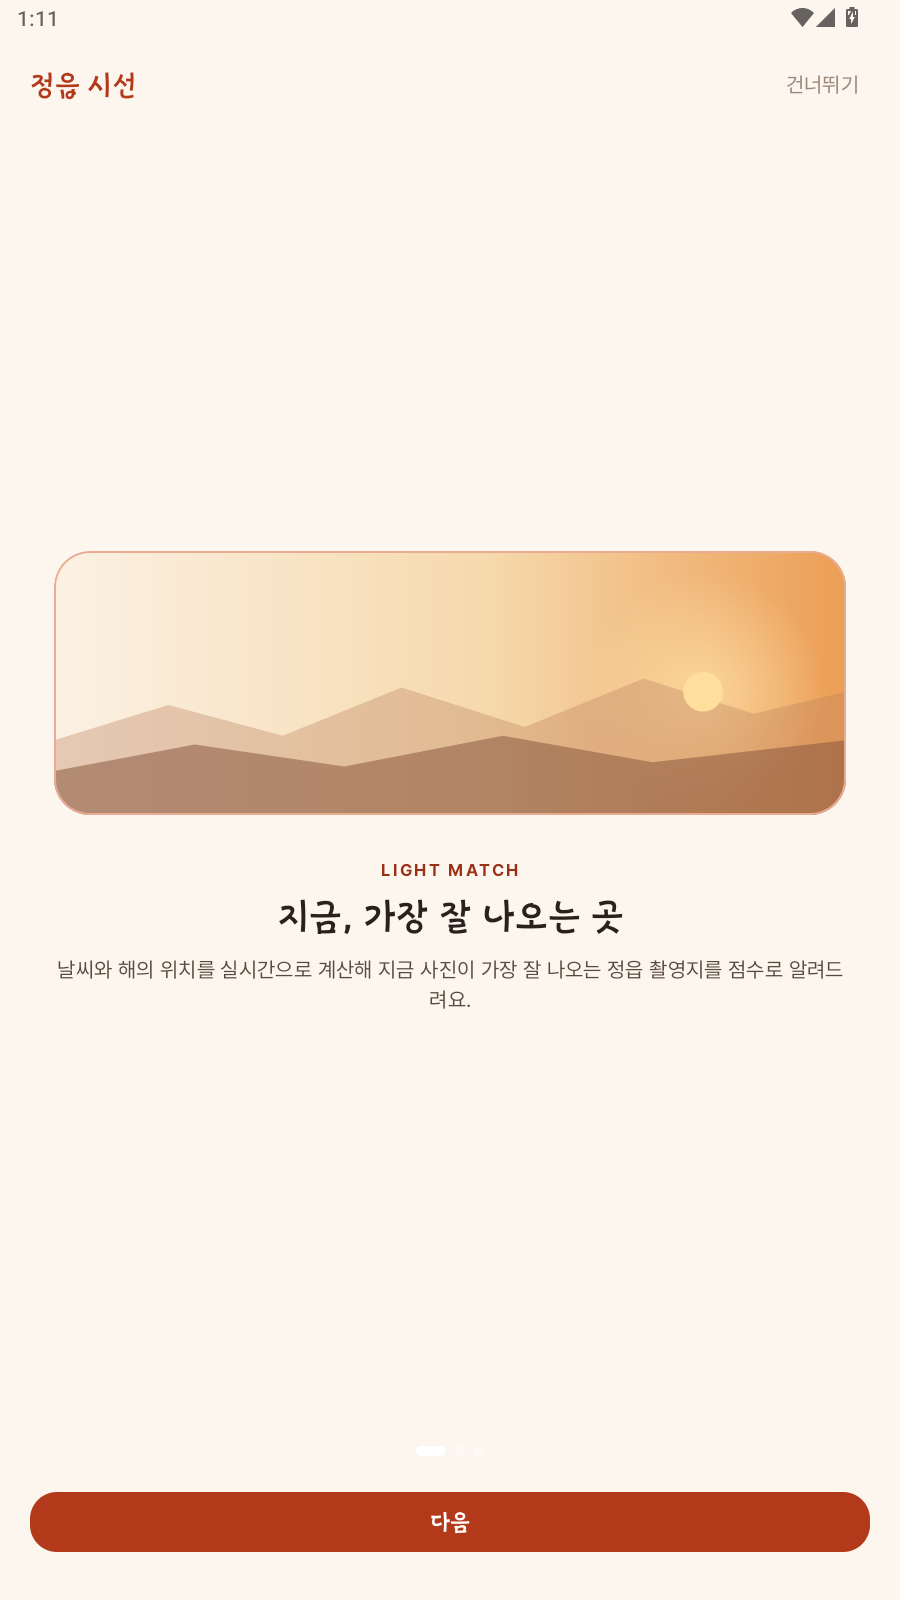
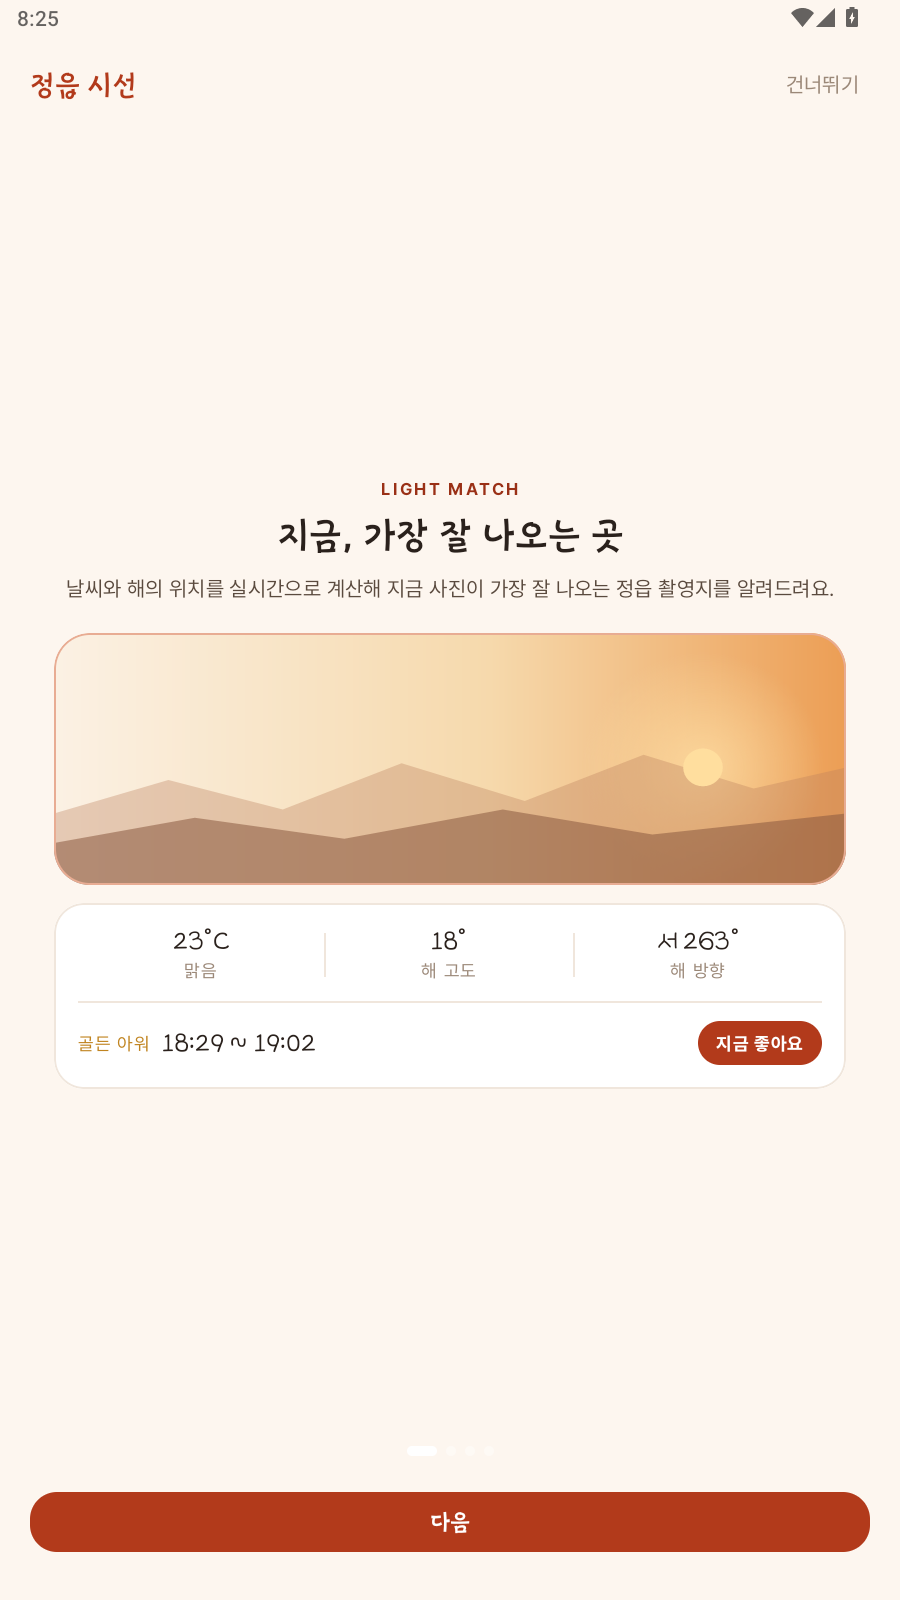
docs(readme): 온보딩 4장 개편 내용 반영, 캡처 갱신

Changed region(s): [[0.0622, 0.2812, 0.9644, 0.6875], [0.0311, 0.0, 0.0622, 0.0312]]

diff --git a/README.md b/README.md
@@ -531,8 +531,15 @@
 
 <img src="docs/screenshots/28-onboarding.png" width="260" align="right" alt="온보딩" />
 
-온보딩 세 장이 이모지가 아니라 **빛 장면 그림**(석양 · 일출 · 낮)으로
-시작합니다 — 첫 화면부터 앱이 쓰는 그림 언어를 미리 보여 줍니다.
+온보딩 네 장이 앱의 핵심 흐름을 순서대로 미리 보여 줍니다 —
+**LIGHT MATCH**(지금 조건 카드) → **LIGHT ROUTE**(하루의 빛 타임라인) →
+**YOUR SISEON**(구도 썸네일 + 보기 모드 선택) → **AFTER THE FRAME**
+(오늘의 기록 · 다음 출사 추천). 기능을 글로 설명하는 대신 각 장에
+그 기능의 실제 얼굴(날씨·해 고도·골든 아워 카드, 일출~일몰 타임라인,
+실루엣·반영·리딩라인 예시)을 예시 값 그대로 얹었습니다.
+
+보기 모드(큰 글씨 / 일반)는 3장에서 고릅니다. 고르면 바로 시작하지 않고
+마지막 장을 마저 보여 준 뒤 **다음 출사 계획 보기**로 들어갑니다.
 로그인·회원가입 단계는 없습니다.
 
 탭 5개 → 3개, 글자·버튼 확대, TTS 0.85배속.
